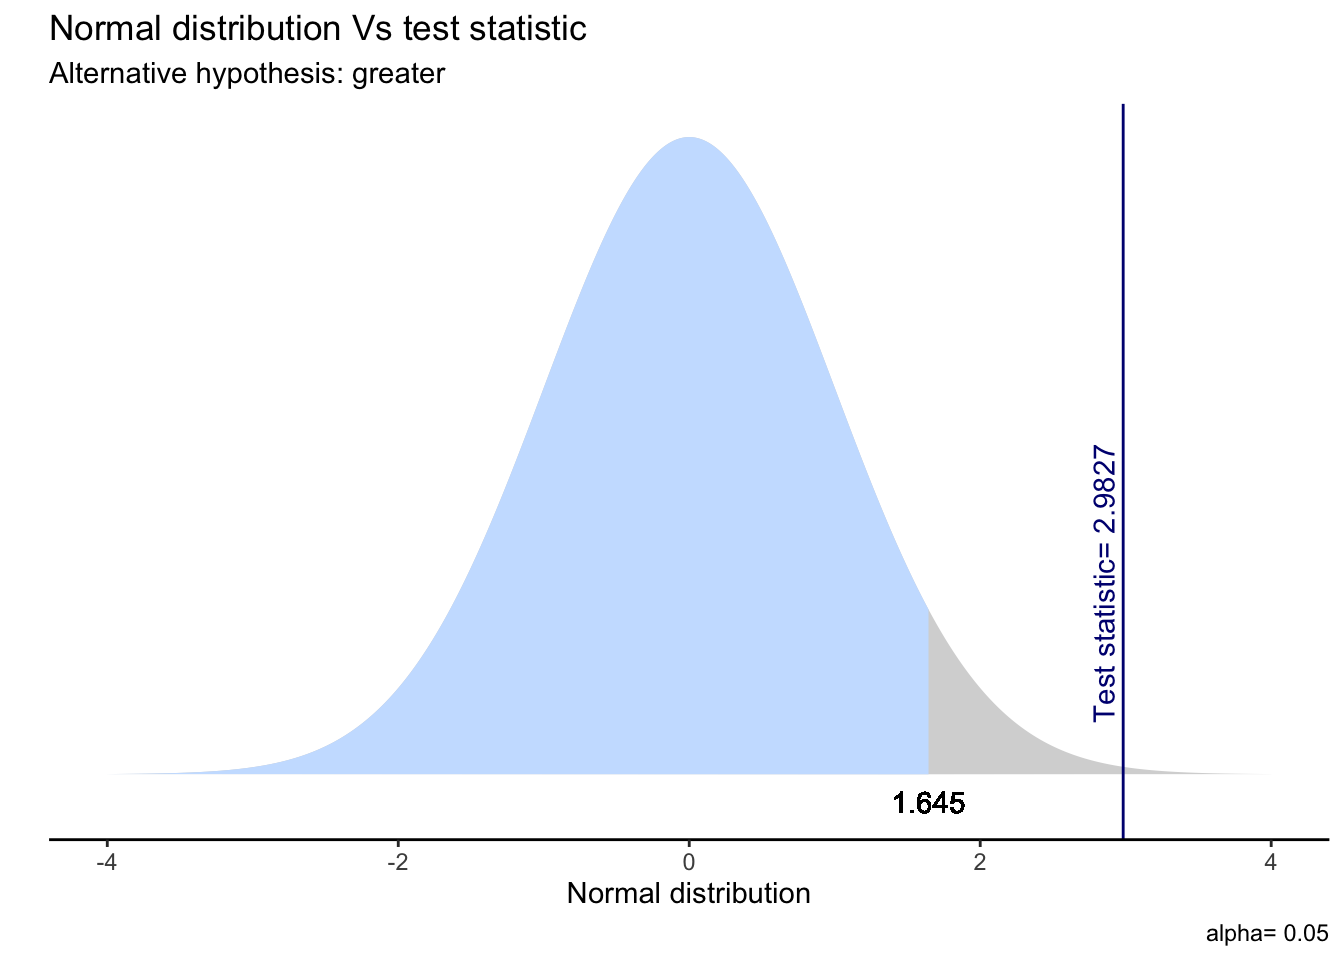
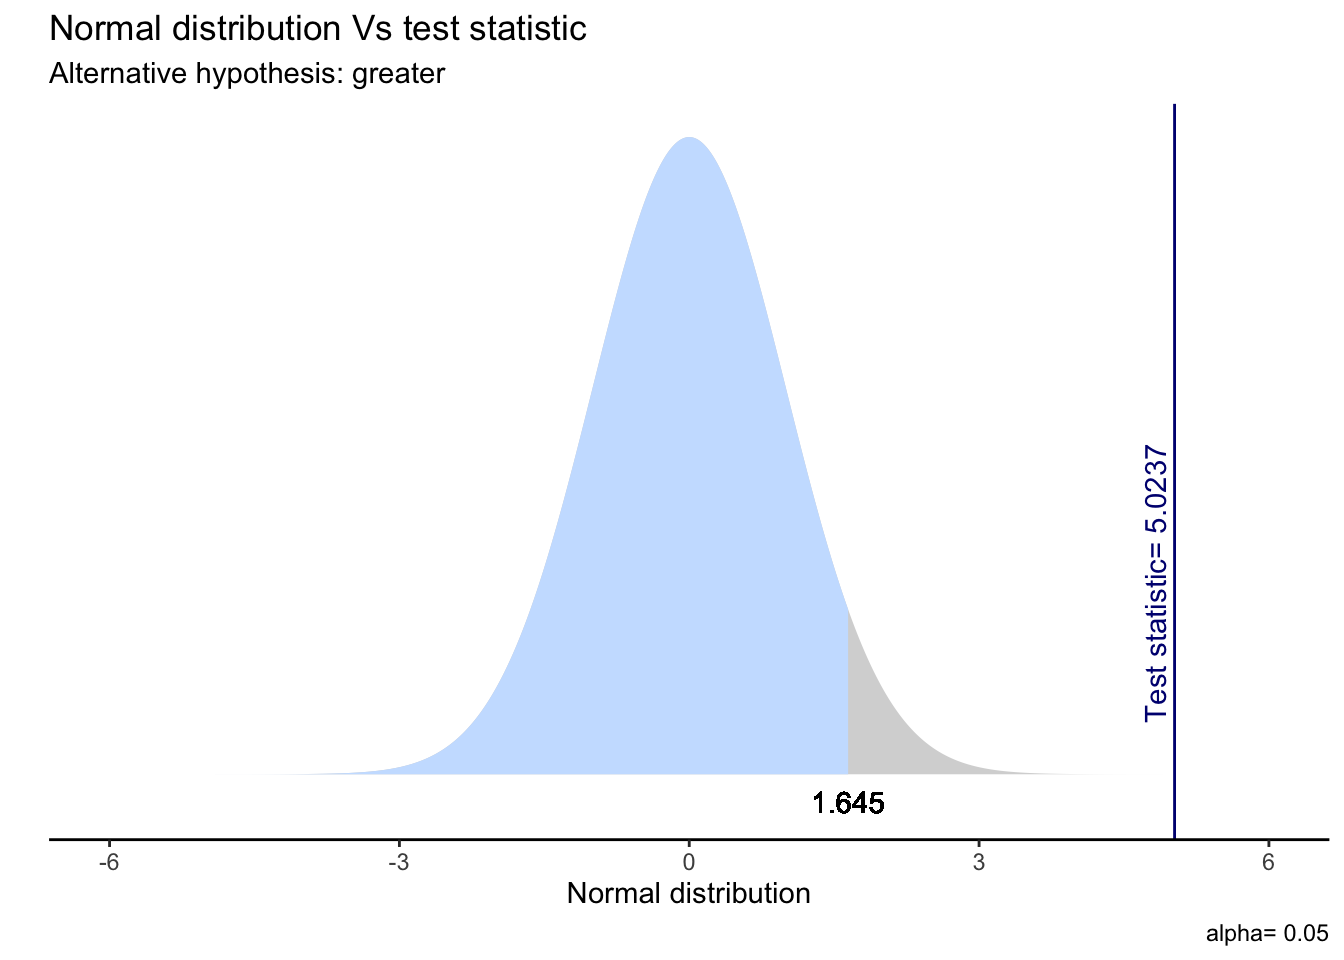
Up práctico 2 render e index

diff --git a/docs/assignment/02-practico.html b/docs/assignment/02-practico.html
@@ -145,7 +145,7 @@ window.Quarto = {
 <meta property="og:image:width" content="466">
 </head>
 
-<body class="nav-fixed">
+<body class="nav-sidebar docked nav-fixed">
 
 <div id="quarto-search-results"></div>
   <header id="quarto-header" class="headroom fixed-top">
@@ -175,7 +175,7 @@ window.Quarto = {
 <span class="menu-text">Clases</span></a>
   </li>  
   <li class="nav-item">
-    <a class="nav-link" href="../assignment/index.html"> 
+    <a class="nav-link active" href="../assignment/index.html" aria-current="page"> 
 <span class="menu-text">Prácticos</span></a>
   </li>  
   <li class="nav-item">
@@ -197,10 +197,68 @@ window.Quarto = {
 </div>
       </div> <!-- /container-fluid -->
     </nav>
+  <nav class="quarto-secondary-nav">
+    <div class="container-fluid d-flex">
+      <button type="button" class="quarto-btn-toggle btn" data-bs-toggle="collapse" data-bs-target=".quarto-sidebar-collapse-item" aria-controls="quarto-sidebar" aria-expanded="false" aria-label="Alternar barra lateral" onclick="if (window.quartoToggleHeadroom) { window.quartoToggleHeadroom(); }">
+        <i class="bi bi-layout-text-sidebar-reverse"></i>
+      </button>
+        <nav class="quarto-page-breadcrumbs" aria-label="breadcrumb"><ol class="breadcrumb"><li class="breadcrumb-item"><a href="../assignment/01-practico.html">Guías</a></li><li class="breadcrumb-item"><a href="../assignment/02-practico.html">2: Intentando Rechazar</a></li></ol></nav>
+        <a class="flex-grow-1" role="button" data-bs-toggle="collapse" data-bs-target=".quarto-sidebar-collapse-item" aria-controls="quarto-sidebar" aria-expanded="false" aria-label="Alternar barra lateral" onclick="if (window.quartoToggleHeadroom) { window.quartoToggleHeadroom(); }">      
+        </a>
+    </div>
+  </nav>
 </header>
 <!-- content -->
 <div id="quarto-content" class="quarto-container page-columns page-rows-contents page-layout-article page-navbar">
 <!-- sidebar -->
+  <nav id="quarto-sidebar" class="sidebar collapse collapse-horizontal quarto-sidebar-collapse-item sidebar-navigation docked overflow-auto">
+    <div class="sidebar-menu-container"> 
+    <ul class="list-unstyled mt-1">
+        <li class="sidebar-item">
+  <div class="sidebar-item-container"> 
+  <a href="../assignment/index.html" class="sidebar-item-text sidebar-link">
+ <span class="menu-text">Descripción</span></a>
+  </div>
+</li>
+        <li class="sidebar-item sidebar-item-section">
+      <div class="sidebar-item-container"> 
+            <a class="sidebar-item-text sidebar-link text-start" data-bs-toggle="collapse" data-bs-target="#quarto-sidebar-section-1" aria-expanded="true">
+ <span class="menu-text">Guías</span></a>
+          <a class="sidebar-item-toggle text-start" data-bs-toggle="collapse" data-bs-target="#quarto-sidebar-section-1" aria-expanded="true" aria-label="Alternar sección">
+            <i class="bi bi-chevron-right ms-2"></i>
+          </a> 
+      </div>
+      <ul id="quarto-sidebar-section-1" class="collapse list-unstyled sidebar-section depth1 show">  
+          <li class="sidebar-item">
+  <div class="sidebar-item-container"> 
+  <a href="../assignment/01-practico.html" class="sidebar-item-text sidebar-link">
+ <span class="menu-text">1: Curva Normal e Intervalos de Confianza</span></a>
+  </div>
+</li>
+          <li class="sidebar-item">
+  <div class="sidebar-item-container"> 
+  <a href="../assignment/02-practico.html" class="sidebar-item-text sidebar-link active">
+ <span class="menu-text">2: Intentando Rechazar</span></a>
+  </div>
+</li>
+      </ul>
+  </li>
+        <li class="sidebar-item">
+  <div class="sidebar-item-container"> 
+  <a href="../assignment/foro-practicos.html" class="sidebar-item-text sidebar-link">
+ <span class="menu-text">Foro Prácticos</span></a>
+  </div>
+</li>
+        <li class="sidebar-item">
+  <div class="sidebar-item-container"> 
+  <a href="../assignment/consola.html" class="sidebar-item-text sidebar-link">
+ <span class="menu-text">Consola R Online</span></a>
+  </div>
+</li>
+    </ul>
+    </div>
+</nav>
+<div id="quarto-sidebar-glass" class="quarto-sidebar-collapse-item" data-bs-toggle="collapse" data-bs-target=".quarto-sidebar-collapse-item"></div>
 <!-- margin-sidebar -->
     <div id="quarto-margin-sidebar" class="sidebar margin-sidebar">
         <nav id="TOC" role="doc-toc" class="toc-active">
@@ -216,7 +274,12 @@ window.Quarto = {
   <li><a href="#recordemos" id="toc-recordemos" class="nav-link" data-scroll-target="#recordemos">Recordemos…</a></li>
   <li><a href="#ejercicio-1" id="toc-ejercicio-1" class="nav-link" data-scroll-target="#ejercicio-1">Ejercicio 1</a></li>
   <li><a href="#ejercicio-2" id="toc-ejercicio-2" class="nav-link" data-scroll-target="#ejercicio-2">Ejercicio 2</a></li>
-  <li><a href="#ejercicio-3" id="toc-ejercicio-3" class="nav-link" data-scroll-target="#ejercicio-3">Ejercicio 3</a></li>
+  <li><a href="#ejercicio-3" id="toc-ejercicio-3" class="nav-link" data-scroll-target="#ejercicio-3">Ejercicio 3</a>
+  <ul class="collapse">
+  <li><a href="#formulación-de-hipótesis" id="toc-formulación-de-hipótesis" class="nav-link" data-scroll-target="#formulación-de-hipótesis">1. Formulación de hipótesis</a></li>
+  <li><a href="#pasos-2-3-y-4-de-una-vez-con-r" id="toc-pasos-2-3-y-4-de-una-vez-con-r" class="nav-link" data-scroll-target="#pasos-2-3-y-4-de-una-vez-con-r">Pasos 2, 3 y 4 de una vez con R</a></li>
+  </ul></li>
+  <li><a href="#interpretación" id="toc-interpretación" class="nav-link" data-scroll-target="#interpretación">5. Interpretación</a></li>
   </ul>
 </nav>
     </div>
@@ -422,7 +485,7 @@ Prueba de una cola
 <span id="cb8-3"><a href="#cb8-3" aria-hidden="true" tabindex="-1"></a>  dplyr<span class="sc">::</span><span class="fu">summarise</span>(<span class="at">Obs. =</span> <span class="fu">n</span>(),</span>
 <span id="cb8-4"><a href="#cb8-4" aria-hidden="true" tabindex="-1"></a>                   <span class="at">Promedio =</span> <span class="fu">mean</span>(ytrabajocor, <span class="at">na.rm=</span><span class="cn">TRUE</span>),</span>
 <span id="cb8-5"><a href="#cb8-5" aria-hidden="true" tabindex="-1"></a>                   <span class="at">SD =</span> <span class="fu">sd</span>(ytrabajocor, <span class="at">na.rm=</span><span class="cn">TRUE</span>)) <span class="sc">%&gt;%</span> <span class="co"># se agregan las operaciones a presentar en la tabla</span></span>
-<span id="cb8-6"><a href="#cb8-6" aria-hidden="true" tabindex="-1"></a>  <span class="fu">kable</span>(<span class="at">format =</span> <span class="st">"markdown"</span>) <span class="co"># se genera la tabla</span></span></code><button title="Copiar al portapapeles" class="code-copy-button"><i class="bi"></i></button></pre></div>
+<span id="cb8-6"><a href="#cb8-6" aria-hidden="true" tabindex="-1"></a>  kableExtra<span class="sc">::</span><span class="fu">kable</span>(<span class="at">format =</span> <span class="st">"markdown"</span>) <span class="co"># se genera la tabla</span></span></code><button title="Copiar al portapapeles" class="code-copy-button"><i class="bi"></i></button></pre></div>
 <div class="cell-output-display">
 <table class="table table-sm table-striped small">
 <thead>
@@ -436,15 +499,15 @@ Prueba de una cola
 <tbody>
 <tr class="odd">
 <td style="text-align: right;">1</td>
-<td style="text-align: right;">331</td>
-<td style="text-align: right;">713293.6</td>
-<td style="text-align: right;">700206.9</td>
+<td style="text-align: right;">371</td>
+<td style="text-align: right;">826909.7</td>
+<td style="text-align: right;">982911.9</td>
 </tr>
 <tr class="even">
 <td style="text-align: right;">2</td>
-<td style="text-align: right;">309</td>
-<td style="text-align: right;">560854.8</td>
-<td style="text-align: right;">591117.1</td>
+<td style="text-align: right;">289</td>
+<td style="text-align: right;">542721.5</td>
+<td style="text-align: right;">415039.6</td>
 </tr>
 </tbody>
 </table>
@@ -469,7 +532,7 @@ Prueba de una cola
 <li><p>Establecer la probabilidad de error <span class="math inline">\(\alpha\)</span> (usualmente 0.05) y obtener valor crítico (teórico) de la prueba correspondiente</p></li>
 <li><p>Cálculo de intervalo de confianza / contraste valores empírico/crítico</p></li>
 </ol>
-<p>Esta secuencia de pasos tiene un sentido pedagógico para poder entender cómo finalmente se llega a interpretar el contraste de hipótesis en el paso 5. Pero en análisis de datos, luego de establecer las hipótesis nos vamos directamente al softwear que nos permite obtener de una vez toda la información de los pasos 2, 3 y 4.</p>
+<p>Esta secuencia de pasos tiene un sentido pedagógico para poder entender cómo finalmente se llega a interpretar el contraste de hipótesis en el paso 5. Pero en análisis de datos, luego de establecer las hipótesis nos vamos directamente al software que nos permite obtener de una vez toda la información de los pasos 2, 3 y 4.</p>
 <div class="cell">
 <div class="sourceCode cell-code" id="cb9"><pre class="sourceCode r code-with-copy"><code class="sourceCode r"><span id="cb9-1"><a href="#cb9-1" aria-hidden="true" tabindex="-1"></a>test_ej1 <span class="ot">&lt;-</span> <span class="fu">t.test</span>(casen_subset<span class="sc">$</span>ytrabajocor <span class="sc">~</span> casen_subset<span class="sc">$</span>sexo, </span>
 <span id="cb9-2"><a href="#cb9-2" aria-hidden="true" tabindex="-1"></a>                   <span class="at">alternative =</span> <span class="st">"greater"</span>,</span>
@@ -481,21 +544,21 @@ Prueba de una cola
     Welch Two Sample t-test
 
 data:  casen_subset$ytrabajocor by casen_subset$sexo
-t = 2.9827, df = 631.72, p-value = 0.001484
+t = 5.0237, df = 523.53, p-value = 0.0000003483
 alternative hypothesis: true difference in means between group 1 and group 2 is greater than 0
 95 percent confidence interval:
- 68249.85      Inf
+ 190974.3      Inf
 sample estimates:
 mean in group 1 mean in group 2 
-       713293.6        560854.8 </code></pre>
+       826909.7        542721.5 </code></pre>
 </div>
 </div>
 <p>También podemos visualizarlo en una tabla más amable.</p>
 <div class="cell">
 <div class="sourceCode cell-code" id="cb11"><pre class="sourceCode r code-with-copy"><code class="sourceCode r"><span id="cb11-1"><a href="#cb11-1" aria-hidden="true" tabindex="-1"></a>stats.table <span class="ot">&lt;-</span> <span class="fu">tidy</span>(test_ej1, <span class="at">conf_int =</span> T)</span>
-<span id="cb11-2"><a href="#cb11-2" aria-hidden="true" tabindex="-1"></a><span class="fu">nice_table</span>(stats.table, <span class="at">broom =</span> <span class="st">"t.test"</span>)</span></code><button title="Copiar al portapapeles" class="code-copy-button"><i class="bi"></i></button></pre></div>
+<span id="cb11-2"><a href="#cb11-2" aria-hidden="true" tabindex="-1"></a>rempsyc<span class="sc">::</span><span class="fu">nice_table</span>(stats.table, <span class="at">broom =</span> <span class="st">"t.test"</span>)</span></code><button title="Copiar al portapapeles" class="code-copy-button"><i class="bi"></i></button></pre></div>
 <div class="cell-output-display">
-<div class="tabwid"><style>.cl-2bf3acb6{table-layout:auto;}.cl-2bef50f8{font-family:'Times New Roman';font-size:12pt;font-weight:normal;font-style:normal;text-decoration:none;color:rgba(0, 0, 0, 1.00);background-color:transparent;}.cl-2bef5102{font-family:'Times New Roman';font-size:12pt;font-weight:normal;font-style:italic;text-decoration:none;color:rgba(0, 0, 0, 1.00);background-color:transparent;}.cl-2bef510c{font-family:'Times New Roman';font-size:7.2pt;font-weight:normal;font-style:normal;text-decoration:none;color:rgba(0, 0, 0, 1.00);background-color:transparent;position: relative;top:3.6pt;}.cl-2bf11118{margin:0;text-align:center;border-bottom: 0 solid rgba(0, 0, 0, 1.00);border-top: 0 solid rgba(0, 0, 0, 1.00);border-left: 0 solid rgba(0, 0, 0, 1.00);border-right: 0 solid rgba(0, 0, 0, 1.00);padding-bottom:5pt;padding-top:5pt;padding-left:5pt;padding-right:5pt;line-height: 2;background-color:transparent;}.cl-2bf11119{margin:0;text-align:left;border-bottom: 0 solid rgba(0, 0, 0, 1.00);border-top: 0 solid rgba(0, 0, 0, 1.00);border-left: 0 solid rgba(0, 0, 0, 1.00);border-right: 0 solid rgba(0, 0, 0, 1.00);padding-bottom:5pt;padding-top:5pt;padding-left:5pt;padding-right:5pt;line-height: 2;background-color:transparent;}.cl-2bf11b72{background-color:transparent;vertical-align: middle;border-bottom: 0.5pt solid rgba(0, 0, 0, 1.00);border-top: 0.5pt solid rgba(0, 0, 0, 1.00);border-left: 0 solid rgba(0, 0, 0, 1.00);border-right: 0 solid rgba(0, 0, 0, 1.00);margin-bottom:0;margin-top:0;margin-left:0;margin-right:0;}.cl-2bf11b7c{background-color:transparent;vertical-align: middle;border-bottom: 0.5pt solid rgba(0, 0, 0, 1.00);border-top: 0 solid rgba(0, 0, 0, 1.00);border-left: 0 solid rgba(0, 0, 0, 1.00);border-right: 0 solid rgba(0, 0, 0, 1.00);margin-bottom:0;margin-top:0;margin-left:0;margin-right:0;}.cl-2bf11b7d{background-color:transparent;vertical-align: middle;border-bottom: 0.5pt solid rgba(0, 0, 0, 1.00);border-top: 0 solid rgba(0, 0, 0, 1.00);border-left: 0 solid rgba(0, 0, 0, 1.00);border-right: 0 solid rgba(0, 0, 0, 1.00);margin-bottom:0;margin-top:0;margin-left:0;margin-right:0;}</style><table data-quarto-disable-processing="true" class="cl-2bf3acb6"><thead><tr style="overflow-wrap:break-word;"><th class="cl-2bf11b72"><p class="cl-2bf11118"><span class="cl-2bef50f8">Method</span></p></th><th class="cl-2bf11b72"><p class="cl-2bf11118"><span class="cl-2bef50f8">Alternative</span></p></th><th class="cl-2bf11b72"><p class="cl-2bf11118"><span class="cl-2bef50f8">Mean 1</span></p></th><th class="cl-2bf11b72"><p class="cl-2bf11118"><span class="cl-2bef50f8">Mean 2</span></p></th><th class="cl-2bf11b72"><p class="cl-2bf11118"><span class="cl-2bef5102">M</span><span class="cl-2bef510c">1</span><span class="cl-2bef50f8"> - </span><span class="cl-2bef5102">M</span><span class="cl-2bef510c">2</span></p></th><th class="cl-2bf11b72"><p class="cl-2bf11118"><span class="cl-2bef5102">t</span></p></th><th class="cl-2bf11b72"><p class="cl-2bf11118"><span class="cl-2bef5102">df</span></p></th><th class="cl-2bf11b72"><p class="cl-2bf11118"><span class="cl-2bef5102">p</span></p></th><th class="cl-2bf11b72"><p class="cl-2bf11118"><span class="cl-2bef50f8">95% CI</span></p></th></tr></thead><tbody><tr style="overflow-wrap:break-word;"><td class="cl-2bf11b7c"><p class="cl-2bf11119"><span class="cl-2bef50f8">Welch Two Sample t-test</span></p></td><td class="cl-2bf11b7d"><p class="cl-2bf11118"><span class="cl-2bef50f8">greater</span></p></td><td class="cl-2bf11b7d"><p class="cl-2bf11118"><span class="cl-2bef50f8">713,293.61</span></p></td><td class="cl-2bf11b7d"><p class="cl-2bf11118"><span class="cl-2bef50f8">560,854.84</span></p></td><td class="cl-2bf11b7d"><p class="cl-2bf11118"><span class="cl-2bef50f8">152,438.77</span></p></td><td class="cl-2bf11b7d"><p class="cl-2bf11118"><span class="cl-2bef50f8">2.98</span></p></td><td class="cl-2bf11b7d"><p class="cl-2bf11118"><span class="cl-2bef50f8">631.72</span></p></td><td class="cl-2bf11b7d"><p class="cl-2bf11118"><span class="cl-2bef50f8">.001**</span></p></td><td class="cl-2bf11b7d"><p class="cl-2bf11118"><span class="cl-2bef50f8">[68249.85, Inf]</span></p></td></tr></tbody></table></div>
+<div class="tabwid"><style>.cl-085a6eea{table-layout:auto;}.cl-0856c902{font-family:'Times New Roman';font-size:12pt;font-weight:normal;font-style:normal;text-decoration:none;color:rgba(0, 0, 0, 1.00);background-color:transparent;}.cl-0856c90c{font-family:'Times New Roman';font-size:12pt;font-weight:normal;font-style:italic;text-decoration:none;color:rgba(0, 0, 0, 1.00);background-color:transparent;}.cl-0856c90d{font-family:'Times New Roman';font-size:7.2pt;font-weight:normal;font-style:normal;text-decoration:none;color:rgba(0, 0, 0, 1.00);background-color:transparent;position: relative;top:3.6pt;}.cl-08586c44{margin:0;text-align:center;border-bottom: 0 solid rgba(0, 0, 0, 1.00);border-top: 0 solid rgba(0, 0, 0, 1.00);border-left: 0 solid rgba(0, 0, 0, 1.00);border-right: 0 solid rgba(0, 0, 0, 1.00);padding-bottom:5pt;padding-top:5pt;padding-left:5pt;padding-right:5pt;line-height: 2;background-color:transparent;}.cl-08586c4e{margin:0;text-align:left;border-bottom: 0 solid rgba(0, 0, 0, 1.00);border-top: 0 solid rgba(0, 0, 0, 1.00);border-left: 0 solid rgba(0, 0, 0, 1.00);border-right: 0 solid rgba(0, 0, 0, 1.00);padding-bottom:5pt;padding-top:5pt;padding-left:5pt;padding-right:5pt;line-height: 2;background-color:transparent;}.cl-08587612{background-color:transparent;vertical-align: middle;border-bottom: 0.5pt solid rgba(0, 0, 0, 1.00);border-top: 0.5pt solid rgba(0, 0, 0, 1.00);border-left: 0 solid rgba(0, 0, 0, 1.00);border-right: 0 solid rgba(0, 0, 0, 1.00);margin-bottom:0;margin-top:0;margin-left:0;margin-right:0;}.cl-08587613{background-color:transparent;vertical-align: middle;border-bottom: 0.5pt solid rgba(0, 0, 0, 1.00);border-top: 0 solid rgba(0, 0, 0, 1.00);border-left: 0 solid rgba(0, 0, 0, 1.00);border-right: 0 solid rgba(0, 0, 0, 1.00);margin-bottom:0;margin-top:0;margin-left:0;margin-right:0;}.cl-08587614{background-color:transparent;vertical-align: middle;border-bottom: 0.5pt solid rgba(0, 0, 0, 1.00);border-top: 0 solid rgba(0, 0, 0, 1.00);border-left: 0 solid rgba(0, 0, 0, 1.00);border-right: 0 solid rgba(0, 0, 0, 1.00);margin-bottom:0;margin-top:0;margin-left:0;margin-right:0;}</style><table data-quarto-disable-processing="true" class="cl-085a6eea"><thead><tr style="overflow-wrap:break-word;"><th class="cl-08587612"><p class="cl-08586c44"><span class="cl-0856c902">Method</span></p></th><th class="cl-08587612"><p class="cl-08586c44"><span class="cl-0856c902">Alternative</span></p></th><th class="cl-08587612"><p class="cl-08586c44"><span class="cl-0856c902">Mean 1</span></p></th><th class="cl-08587612"><p class="cl-08586c44"><span class="cl-0856c902">Mean 2</span></p></th><th class="cl-08587612"><p class="cl-08586c44"><span class="cl-0856c90c">M</span><span class="cl-0856c90d">1</span><span class="cl-0856c902"> - </span><span class="cl-0856c90c">M</span><span class="cl-0856c90d">2</span></p></th><th class="cl-08587612"><p class="cl-08586c44"><span class="cl-0856c90c">t</span></p></th><th class="cl-08587612"><p class="cl-08586c44"><span class="cl-0856c90c">df</span></p></th><th class="cl-08587612"><p class="cl-08586c44"><span class="cl-0856c90c">p</span></p></th><th class="cl-08587612"><p class="cl-08586c44"><span class="cl-0856c902">95% CI</span></p></th></tr></thead><tbody><tr style="overflow-wrap:break-word;"><td class="cl-08587613"><p class="cl-08586c4e"><span class="cl-0856c902">Welch Two Sample t-test</span></p></td><td class="cl-08587614"><p class="cl-08586c44"><span class="cl-0856c902">greater</span></p></td><td class="cl-08587614"><p class="cl-08586c44"><span class="cl-0856c902">826,909.66</span></p></td><td class="cl-08587614"><p class="cl-08586c44"><span class="cl-0856c902">542,721.54</span></p></td><td class="cl-08587614"><p class="cl-08586c44"><span class="cl-0856c902">284,188.12</span></p></td><td class="cl-08587614"><p class="cl-08586c44"><span class="cl-0856c902">5.02</span></p></td><td class="cl-08587614"><p class="cl-08586c44"><span class="cl-0856c902">523.53</span></p></td><td class="cl-08587614"><p class="cl-08586c44"><span class="cl-0856c902">&lt; .001***</span></p></td><td class="cl-08587614"><p class="cl-08586c44"><span class="cl-0856c902">[190974.26, Inf]</span></p></td></tr></tbody></table></div>
 </div>
 </div>
 <p>Visualicemos la distribución de esta prueba y su zona de rechazo.</p>
@@ -528,9 +591,9 @@ mean in group 1 mean in group 2
 <span id="cb13-7"><a href="#cb13-7" aria-hidden="true" tabindex="-1"></a>goldin_data <span class="sc">%&gt;%</span> </span>
 <span id="cb13-8"><a href="#cb13-8" aria-hidden="true" tabindex="-1"></a>  dplyr<span class="sc">::</span><span class="fu">group_by</span>(hijo) <span class="sc">%&gt;%</span> </span>
 <span id="cb13-9"><a href="#cb13-9" aria-hidden="true" tabindex="-1"></a>  dplyr<span class="sc">::</span><span class="fu">summarise</span>(<span class="at">Obs. =</span> <span class="fu">n</span>(),</span>
-<span id="cb13-10"><a href="#cb13-10" aria-hidden="true" tabindex="-1"></a>            <span class="at">Media =</span> <span class="fu">mean</span>(ytrabajocor, <span class="at">na.rm =</span> T),</span>
-<span id="cb13-11"><a href="#cb13-11" aria-hidden="true" tabindex="-1"></a>            <span class="at">DS =</span> <span class="fu">sd</span>(ytrabajocor, <span class="at">na.rm =</span> T)) <span class="sc">%&gt;%</span> </span>
-<span id="cb13-12"><a href="#cb13-12" aria-hidden="true" tabindex="-1"></a>  <span class="fu">kable</span>(<span class="at">format =</span> <span class="st">"markdown"</span>) <span class="co"># hacemos la tabla</span></span></code><button title="Copiar al portapapeles" class="code-copy-button"><i class="bi"></i></button></pre></div>
+<span id="cb13-10"><a href="#cb13-10" aria-hidden="true" tabindex="-1"></a>                   <span class="at">Media =</span> <span class="fu">mean</span>(ytrabajocor, <span class="at">na.rm =</span> T),</span>
+<span id="cb13-11"><a href="#cb13-11" aria-hidden="true" tabindex="-1"></a>                   <span class="at">DS =</span> <span class="fu">sd</span>(ytrabajocor, <span class="at">na.rm =</span> T)) <span class="sc">%&gt;%</span> </span>
+<span id="cb13-12"><a href="#cb13-12" aria-hidden="true" tabindex="-1"></a>  kableExtra<span class="sc">::</span><span class="fu">kable</span>(<span class="at">format =</span> <span class="st">"markdown"</span>) <span class="co"># hacemos la tabla</span></span></code><button title="Copiar al portapapeles" class="code-copy-button"><i class="bi"></i></button></pre></div>
 <div class="cell-output-display">
 <table class="table table-sm table-striped small">
 <thead>
@@ -544,15 +607,15 @@ mean in group 1 mean in group 2
 <tbody>
 <tr class="odd">
 <td style="text-align: right;">0</td>
-<td style="text-align: right;">349</td>
-<td style="text-align: right;">694854.2</td>
-<td style="text-align: right;">708044.3</td>
+<td style="text-align: right;">335</td>
+<td style="text-align: right;">728826.6</td>
+<td style="text-align: right;">807752.4</td>
 </tr>
 <tr class="even">
 <td style="text-align: right;">1</td>
-<td style="text-align: right;">1100</td>
-<td style="text-align: right;">585974.7</td>
-<td style="text-align: right;">590710.9</td>
+<td style="text-align: right;">1108</td>
+<td style="text-align: right;">569856.5</td>
+<td style="text-align: right;">561702.5</td>
 </tr>
 </tbody>
 </table>
@@ -564,14 +627,27 @@ mean in group 1 mean in group 2
 <p><strong>Pasos 2, 3 y 4 de una vez con R</strong></p>
 <p>Siguiendo el ejemplo del Ejercicio 1, utilice el software para generar los estadísticos correspondientes. Contraste sus hipótesis considerando un 95% de confianza.</p>
 <p><strong>5. Interpretación</strong></p>
-<p>Interprete los resultados obtenidos: ¿es posible rechazar la hipótesis planteada? ¿cambia la interpretación al utilizar distintos niveles de confianza?</p>
+<p>Interprete los resultados obtenidos: ¿es posible rechazar la hipótesis planteada?</p>
 <blockquote class="blockquote">
 <p>La prueba T que evalúa la diferencia de medias…</p>
 </blockquote>
 </section>
 <section id="ejercicio-3" class="level1">
 <h1>Ejercicio 3</h1>
-<p>Prodia ser algo con nivel eduacional (var educ en proc_casen)</p>
+<p>En este ejercicio tomamos de ejemplo una pregunta clásica en ciencias sociales: <em>¿el ingreso de las personas está relacionado a su nivel educacional?</em>. Para responder esta pregunta vamos a usar una prueba <span class="math inline">\(t\)</span> de contraste de medias para dos muestras independientes.</p>
+<p>Esta vez les dejaremos el procesamiento a ustedes. Utilice la bbdd <code>proc_casen</code> y seleccione las variables <code>ytrabajocor</code> y <code>universitaria</code>. Luego genere una muestra aleatoria 1500 casos con la función <code>sample_n()</code> y elimine los datos perdidos de la variable <code>ytrabajocor</code>. Luego, genere una tabla de descriptivos de los ingresos (<code>ytrabajocor</code>) según si las personas cuentan con educación universitaria o no (<code>universitaria</code>). Presente cantidad de observaciones por categoría, media y desviación estándar.</p>
+<section id="formulación-de-hipótesis" class="level2">
+<h2 class="anchored" data-anchor-id="formulación-de-hipótesis">1. Formulación de hipótesis</h2>
+<p>El primer paso es traducir nuestra pregunta a una hipótesis estadística contrastable. Para ello: a) elija el tipo de hipótesis a plantear ¿direccional o no direccional? y b) especifique la hipótesis nula (<span class="math inline">\(H_0\)</span>) e hipótesis alternativa (<span class="math inline">\(H_A\)</span>).</p>
+</section>
+<section id="pasos-2-3-y-4-de-una-vez-con-r" class="level2">
+<h2 class="anchored" data-anchor-id="pasos-2-3-y-4-de-una-vez-con-r">Pasos 2, 3 y 4 de una vez con R</h2>
+<p>Siguiendo el ejemplo del Ejercicio 1, utilice el <em>software</em> para generar los estadísticos correspondientes. Contraste sus hipótesis considerando un 95% de confianza y un 99% de confianza. Comente las diferencias en el paso 5.</p>
+</section>
+</section>
+<section id="interpretación" class="level1">
+<h1>5. Interpretación</h1>
+<p>Interprete los resultados obtenidos: ¿es posible rechazar la hipótesis nula? ¿a raíz de qué información llega a la conclusión? ¿qué diferencia observa al aplicar la prueba con ambos niveles de confianza (95% y 99%)?</p>
 
 
 </section>
